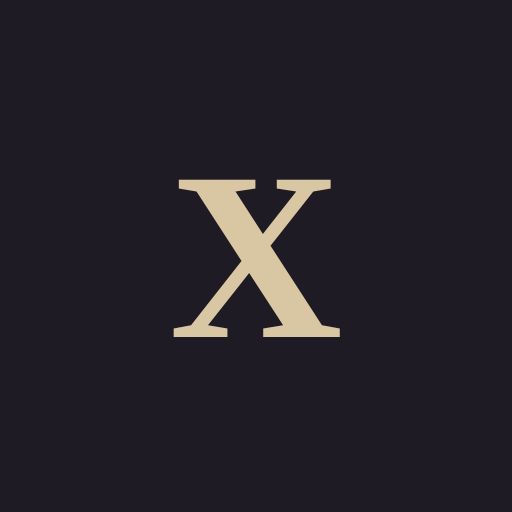
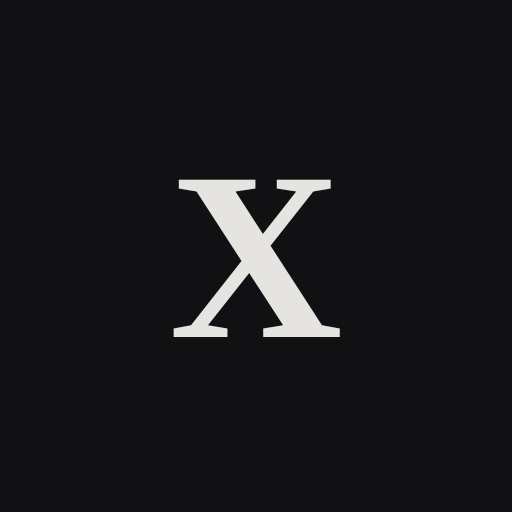
Оформление в стиле Хвора: палитра, шрифты, иконка
Claude-Session: https://claude.ai/code/session_01KECdTBLoDAMqzWS83UF5if

Changed region(s): [[0.3438, 0.3438, 0.6875, 0.6562]]

diff --git a/src/index.css b/src/index.css
@@ -1,10 +1,190 @@
+/* Khvor theme: dark grey base, blood red / violet / blue accents. */
 :root {
-  color-scheme: light dark;
-  font-family: system-ui, sans-serif;
-  line-height: 1.5;
+  /* surfaces */
+  --bg: #111113;
+  --surface: #1b1b1e;
+  --surface-sunken: #161618;
+  --track: #26262a;
+  --line: #2e2e33;
+  --line-soft: #242428;
+  --line-strong: #4a4a52;
+
+  /* text */
+  --text: #e6e4e0;
+  --text-strong: #f0eeea;
+  --text-muted: #a3a1a8;
+  --text-faint: #8e8c94;
+
+  /* main accent: dark grey */
+  --accent: #3d3d45;
+  --accent-border: #62626c;
+  --ring: #6b6b74;
+
+  /* blood red: HP, crits, pending changes */
+  --blood: #9e1f1f;
+  --blood-deep: #7a1a1a;
+  --blood-text: #e05a52;
+  --blood-glow: rgba(158, 31, 31, 0.5);
+
+  /* violet: magic, spell slots, charges */
+  --magic: #a77de0;
+  --magic-glow: rgba(150, 95, 215, 0.45);
+
+  /* blue: precursors, status, links, "may be inaccurate" */
+  --tech: #8fbfe0;
+  --tech-hover: #b5d6ee;
+  --tech-border: #34506a;
+
+  --font-body: 'Alegreya Sans', system-ui, sans-serif;
+  --font-display: 'Cormorant Garamond', Georgia, serif;
+  --font-caps: 'Cormorant SC', Georgia, serif;
+
+  --radius: 10px;
+
+  color-scheme: dark;
+  font-family: var(--font-body);
+  font-size: 16px;
+  line-height: 1.4;
+  color: var(--text);
+  background: var(--bg);
 }
 
 body {
   margin: 0;
-  padding: 16px;
+  background: var(--bg);
+}
+
+button,
+input {
+  font: inherit;
+  color: inherit;
+}
+
+a {
+  color: var(--tech);
+}
+a:hover {
+  color: var(--tech-hover);
+}
+
+h1,
+h2 {
+  margin: 0;
+  font-family: var(--font-display);
+  font-weight: 700;
+  line-height: 1.05;
+}
+
+/* Layout: phone first, centered column on wide screens */
+.page {
+  max-width: 480px;
+  margin: 0 auto;
+  padding: 14px 16px 24px;
+  display: flex;
+  flex-direction: column;
+  gap: 16px;
+}
+
+.brand {
+  font-family: var(--font-caps);
+  font-weight: 700;
+  font-size: 17px;
+  letter-spacing: 0.08em;
+  color: var(--text);
+}
+
+.subtitle {
+  font-family: var(--font-display);
+  font-weight: 700;
+  font-size: 21px;
+  color: var(--blood-text);
+}
+
+.muted {
+  color: var(--text-muted);
+}
+
+.card {
+  background: var(--surface);
+  border: 1px solid var(--line);
+  border-radius: var(--radius);
+  padding: 14px;
+}
+
+.section-title {
+  display: flex;
+  align-items: center;
+  gap: 10px;
+  font-family: var(--font-caps);
+  font-weight: 700;
+  font-size: 19px;
+  letter-spacing: 0.06em;
+}
+.section-title::after {
+  content: '';
+  flex: 1;
+  height: 2px;
+  background: var(--line);
+  border-radius: 1px;
+}
+
+.btn {
+  min-height: 48px;
+  padding: 0 16px;
+  display: inline-flex;
+  align-items: center;
+  justify-content: center;
+  background: var(--surface);
+  border: 1px solid var(--line-strong);
+  border-radius: var(--radius);
+  font-size: 15px;
+  text-decoration: none;
+  color: var(--text);
+  cursor: pointer;
+}
+.btn:hover {
+  color: var(--text-strong);
+  border-color: var(--accent-border);
+}
+.btn-primary {
+  background: var(--accent);
+  border-color: var(--accent-border);
+  color: var(--text-strong);
+  font-weight: 700;
+}
+
+.chip {
+  width: fit-content;
+  display: inline-flex;
+  align-items: center;
+  gap: 6px;
+  padding: 4px 10px;
+  border: 1px solid var(--line-strong);
+  border-radius: 999px;
+  font-size: 13px;
+  color: var(--text-muted);
+}
+.chip::before {
+  content: '';
+  width: 8px;
+  height: 8px;
+  border-radius: 50%;
+  background: currentColor;
+}
+.chip-tech {
+  border-color: var(--tech-border);
+  color: var(--tech);
+}
+.chip-blood {
+  border-color: var(--blood);
+  color: var(--blood-text);
+}
+.chip-magic {
+  border-color: var(--magic);
+  color: var(--magic);
+}
+
+:focus-visible {
+  outline: 2px solid var(--tech);
+  outline-offset: 2px;
 }

diff --git a/src/features/status/StatusPage.tsx b/src/features/status/StatusPage.tsx
@@ -39,18 +39,26 @@ export function StatusPage() {
 
   return (
     <>
-      <h1>Проверка доступа</h1>
-      <p>
-        {result.state === 'no-keys' && '⚪ Ключи Supabase не заданы.'}
-        {result.state === 'checking' && '⏳ Проверяю связь с Supabase…'}
-        {result.state === 'ok' && `🟢 Supabase доступен (ответ за ${result.ms} мс).`}
-        {result.state === 'error' && `🔴 Supabase недоступен. ${result.message}`}
+      <span className="brand">Dnd Hub</span>
+      <h1 style={{ fontSize: 32 }}>Проверка доступа</h1>
+      <div className="card" style={{ display: 'flex', flexDirection: 'column', gap: 8 }} aria-live="polite">
+        {result.state === 'no-keys' && <span className="chip">Ключи Supabase не заданы</span>}
+        {result.state === 'checking' && <span className="chip">Проверяю связь с Supabase…</span>}
+        {result.state === 'ok' && <span className="chip chip-tech">Supabase доступен · {result.ms} мс</span>}
+        {result.state === 'error' && (
+          <>
+            <span className="chip chip-blood">Supabase недоступен</span>
+            <span className="muted">{result.message}</span>
+          </>
+        )}
+        {supabaseUrl && <span className="muted">Адрес: {supabaseUrl}</span>}
+      </div>
+      <p className="muted">
+        Если видишь красную метку, попробуй включить VPN, обнови страницу и напиши мастеру.
       </p>
-      {supabaseUrl && <p>Адрес: {supabaseUrl}</p>}
-      <p>
-        Если видишь красный кружок, попробуй включить VPN и обновить страницу, и напиши мастеру.
-      </p>
-      <Link to="/">На главную</Link>
+      <Link className="btn" to="/">
+        На главную
+      </Link>
     </>
   )
 }

diff --git a/src/App.tsx b/src/App.tsx
@@ -4,16 +4,21 @@ import { StatusPage } from './features/status/StatusPage'
 function Home() {
   return (
     <>
-      <h1>Dnd Hub</h1>
-      <p>Листы персонажей кампании «Хвор» между сессиями. Скоро здесь что-то будет.</p>
-      <Link to="/status">Проверка доступа</Link>
+      <div>
+        <h1 style={{ fontSize: 40 }}>Dnd Hub</h1>
+        <span className="subtitle">Кампания «Хвор»</span>
+      </div>
+      <p className="muted">Листы персонажей между сессиями. Скоро здесь что-то будет.</p>
+      <Link className="btn" to="/status">
+        Проверка доступа
+      </Link>
     </>
   )
 }
 
 function App() {
   return (
-    <main>
+    <main className="page">
       <Routes>
         <Route path="/" element={<Home />} />
         <Route path="/status" element={<StatusPage />} />

diff --git a/vite.config.ts b/vite.config.ts
@@ -19,8 +19,8 @@ export default defineConfig({
         start_url: './',
         scope: './',
         display: 'standalone',
-        background_color: '#1f1b24',
-        theme_color: '#1f1b24',
+        background_color: '#111113',
+        theme_color: '#111113',
         icons: [
           { src: 'pwa-192x192.png', sizes: '192x192', type: 'image/png' },
           { src: 'pwa-512x512.png', sizes: '512x512', type: 'image/png' },
@@ -29,7 +29,7 @@ export default defineConfig({
       },
       workbox: {
         // Cache the app shell; Supabase data will get its own offline handling in phase 3
-        globPatterns: ['**/*.{js,css,html,svg,png}'],
+        globPatterns: ['**/*.{js,css,html,svg,png,woff2}'],
       },
     }),
   ],

diff --git a/src/styles/fonts.ts b/src/styles/fonts.ts
@@ -1,0 +1,11 @@
+// Self-hosted fonts (work offline in the installed PWA). Latin + Cyrillic only.
+import '@fontsource/alegreya-sans/latin-400.css'
+import '@fontsource/alegreya-sans/cyrillic-400.css'
+import '@fontsource/alegreya-sans/latin-500.css'
+import '@fontsource/alegreya-sans/cyrillic-500.css'
+import '@fontsource/alegreya-sans/latin-700.css'
+import '@fontsource/alegreya-sans/cyrillic-700.css'
+import '@fontsource/cormorant-garamond/latin-700.css'
+import '@fontsource/cormorant-garamond/cyrillic-700.css'
+import '@fontsource/cormorant-sc/latin-700.css'
+import '@fontsource/cormorant-sc/cyrillic-700.css'

diff --git a/index.html b/index.html
@@ -4,7 +4,7 @@
     <meta charset="UTF-8" />
     <link rel="icon" type="image/svg+xml" href="/icon.svg" />
     <link rel="apple-touch-icon" href="/apple-touch-icon.png" />
-    <meta name="theme-color" content="#1f1b24" />
+    <meta name="theme-color" content="#111113" />
     <meta name="viewport" content="width=device-width, initial-scale=1.0" />
     <title>Dnd Hub</title>
   </head>

diff --git a/src/main.tsx b/src/main.tsx
@@ -1,6 +1,7 @@
 import { StrictMode } from 'react'
 import { createRoot } from 'react-dom/client'
 import { HashRouter } from 'react-router'
+import './styles/fonts'
 import './index.css'
 import App from './App.tsx'
 
